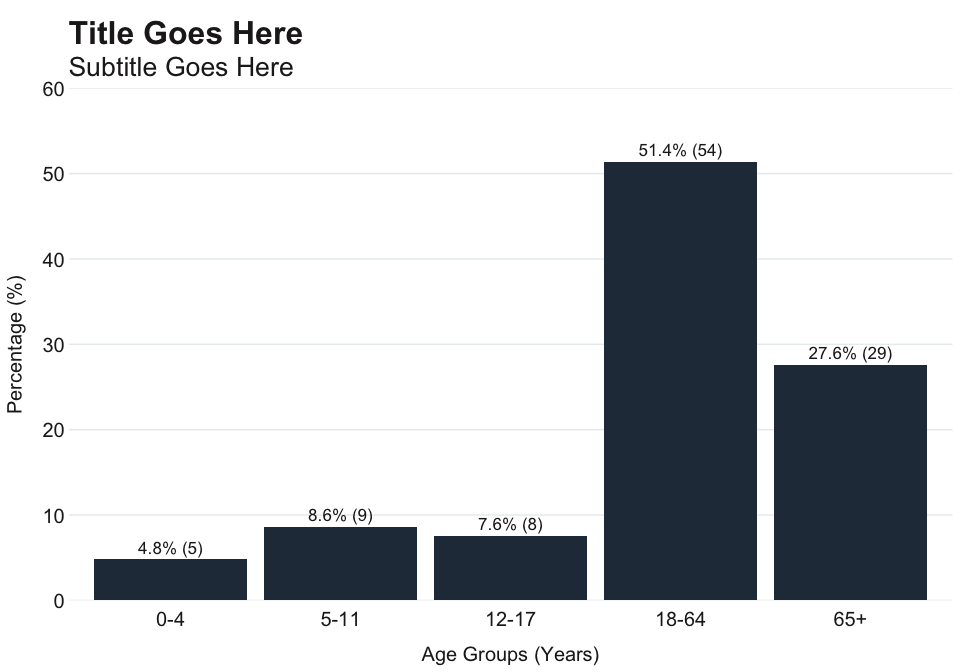
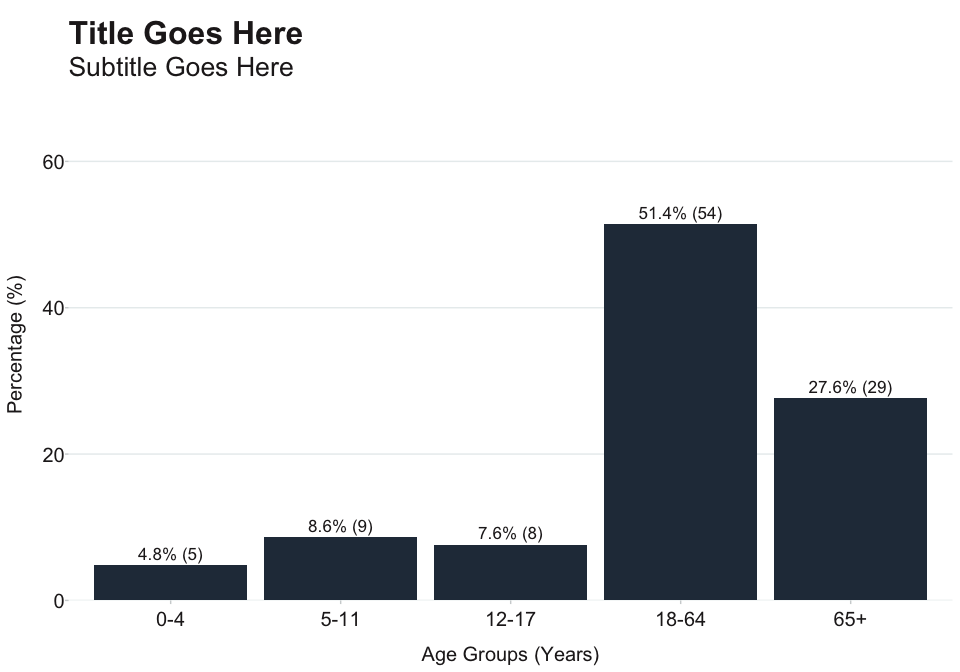
cov, vignette, cran prep

diff --git a/vignettes/OCepi.md b/vignettes/OCepi.md
@@ -1,52 +1,58 @@
 OCepi - Vignette
 ================
 
-- [Basic Data Cleaning](#basic-data-cleaning)
-  - [Recoding Patient Data](#recoding-patient-data)
-  - [Misc Data Cleaning](#misc-data-cleaning)
+- [Data Cleaning](#data-cleaning)
+  - [Recoding](#recoding)
+  - [Misc Recoding](#misc-recoding)
   - [VRBIS](#vrbis)
 - [Data Masking](#data-masking)
   - [Suppression](#suppression)
   - [Redaction](#redaction)
-- [Grouping Patients in Time](#grouping-patients-in-time)
+- [Common Epidemiological Date
+  Conversions](#common-epidemiological-date-conversions)
   - [MMWR](#mmwr)
   - [Respiratory Season](#respiratory-season)
   - [Month](#month)
 - [Data Management](#data-management)
   - [Data.frames](#dataframes)
 - [Data Visualizations](#data-visualizations)
-  - [Plot Themes](#plot-themes)
 
 The functions in this package were designed to simplify the most
 frequent recoding tasks. Patient data is *messy*, often times requiring:
 converting abbreviations to full responses, coalescing race and
-ethnicity to a unified column, fixing all the variations of misspelled
-city names, or grouping patients into time by week/month/year.
+ethnicity to a unified column, reformatting columns to use in
+joins/matching, or grouping patients into time.
 
-The examples below will use the simulated outbreak data:
+The examples below will use simulated outbreak data:
 
-    #> # A tibble: 10 × 5
-    #>    Ethnicity              Race                 Gender   Age `Sexual Orientation`
-    #>    <chr>                  <chr>                <chr>  <dbl> <chr>               
-    #>  1 Hispanic or Latino     Asian                F         63 HET                 
-    #>  2 Non-Hispanic or Latino Other                F         15 UNK                 
-    #>  3 Hispanic or Latino     Other                U          1 HET                 
-    #>  4 Hispanic or Latino     American Indian or … F         42 DNK                 
-    #>  5 Non-Hispanic or Latino Unknown              M         77 NOT                 
-    #>  6 Non-Hispanic or Latino Other                M         31 HET                 
-    #>  7 Non-Hispanic or Latino White                F         11 HET                 
-    #>  8 Hispanic or Latino     Asian                M         60 BIS                 
-    #>  9 Hispanic or Latino     Multiple Races       F         56 HET                 
-    #> 10 Non-Hispanic or Latino American Indian or … F         36 HET
+    #> # A tibble: 10 × 6
+    #>    Ethnicity             Race  Gender   Age `Sexual Orientation` `Specimen Date`
+    #>    <chr>                 <chr> <chr>  <dbl> <chr>                <chr>          
+    #>  1 Non-Hispanic or Lati… Mult… M         46 HET                  6/7/2022       
+    #>  2 Unknown               Unkn… M          4 HET                  6/9/2022       
+    #>  3 Non-Hispanic or Lati… White F         52 UNK                  6/7/2022       
+    #>  4 Non-Hispanic or Lati… White F         77 UNK                  6/11/2022      
+    #>  5 Unknown               Amer… M         71 HET                  6/10/2022      
+    #>  6 Non-Hispanic or Lati… Other M         70 HET                  6/9/2022       
+    #>  7 Non-Hispanic or Lati… Blac… F         11 HET                  6/8/2022       
+    #>  8 Non-Hispanic or Lati… Blac… F          8 HET                  6/12/2022      
+    #>  9 Hispanic or Latino    Amer… F         41 HET                  6/12/2022      
+    #> 10 Non-Hispanic or Lati… Blac… M         56 HET                  6/10/2022
 
-## Basic Data Cleaning
+## Data Cleaning
 
-### Recoding Patient Data
+### Recoding
 
 Core Functions:
 
 - `recode_race` - able to accept: ethnicity and race, race only, LOINC
   codes, and ‘Multi-race Status’ variable from VRBIS.
+
+  - Use argument `abbr_names` to abbreviate long category names
+    i.e. “American Indian or Alaska Native” to “AI/AN” (TRUE/FALSE).
+
+  - If using ethnicity and race, use order
+    `recode_race(ethnicity, race)`.
 
 - `recode_gender` - can be used with CalREDIE or VRBIS; aims to use the
   most inclusive terms possible.
@@ -70,8 +76,7 @@ Core Functions:
   - **school:** 0-4, 5-11, 12-17, 18-64, 65+
   - **wnv:** 0-17, 18-24, 25-34, 35-44, 45-54, 55-64, 65+
 
-Typical starting point in exploratory analysis is to recode
-demographics.
+Example:
 
 ``` r
 linelist <- linelist %>%
@@ -83,12 +88,8 @@ linelist <- linelist %>%
   )
 ```
 
-`recode_race` has the option to abbreviate long category names
-i.e. “American Indian or Alaska Native” to “AI/AN”. Set `abbr_names` to
-FALSE for full length names.
-
-Now run a frequency table with percentage using `add_percent` and crude
-rates using `rate_per_100k`:
+Frequency table with percentage using `add_percent` and incidence rates
+using `rate_per_100k`:
 
 ``` r
 linelist %>%
@@ -106,28 +107,23 @@ linelist %>%
 #> # A tibble: 5 × 4
 #>   age_group     n percent  rate
 #>   <fct>     <int>   <dbl> <dbl>
-#> 1 0-4         250     5   250  
-#> 2 5-11        394     7.9 131. 
-#> 3 12-17       366     7.3  73.2
-#> 4 18-64      2562    51.2 256. 
-#> 5 65+        1428    28.6  71.4
+#> 1 0-4           5     4.8   5  
+#> 2 5-11          9     8.6   3  
+#> 3 12-17         8     7.6   1.6
+#> 4 18-64        54    51.4   5.4
+#> 5 65+          29    27.6   1.4
 ```
 
-### Misc Data Cleaning
+### Misc Recoding
 
-Core functions:
+There are several minor recoding functions available:
 
 - `recode_ctract` - removes state (##) and county fips code (###) from
-  census tract. Useful if joining to shapefiles or health places index.
-- `clean_phone` - reformat phone number to U.S. 10 digit number. Useful
-  in matching algorithms or preparing line lists for contact tracing.
-- `clean_address` - convert address to title casing with option to
-  `keep_extra` components such as apartment, unit, etc. Useful in
-  preparing data for geocoding or matching.
-- `pretty_words` - convert messy string to title casing
-
-All of the functions below can be applied to data.frames within
-`dplyr::mutate`:
+  census tract
+- `clean_phone` - reformat phone number to U.S. 10 digit number
+- `clean_address` - convert string to title casing; use argument
+  `keep_extra` to remove(FALSE)/keep(TRUE) apartment, unit, etc.
+- `pretty_words` - convert string to title casing
 
 ``` r
 recode_ctract("06059099244")
@@ -192,18 +188,18 @@ df <- df %>%
 
 Small cell sizes may need to be suppressed to protect patient
 confidentiality prior to reporting. In this example, any cell sizes
-`less_than` 5 will be suppressed and `replace_with` double asterisk.
+`less_than` 10 will be suppressed and `replace_with` double asterisk.
 
 ``` r
-linelist %>% count(Gender) %>% mutate(n_suppress = suppress(n, less_than = 5, replace_with = "**"))
+linelist %>% count(age_group) %>% mutate(n_suppress = suppress(n, less_than = 10, replace_with = "**"))
 #> # A tibble: 5 × 3
-#>   Gender                n n_suppress
-#>   <chr>             <int> <chr>     
-#> 1 Female             2187 2187      
-#> 2 Male               2224 2224      
-#> 3 Missing/Unknown     583 583       
-#> 4 Transgender man       2 **        
-#> 5 Transgender woman     4 **
+#>   age_group     n n_suppress
+#>   <fct>     <int> <chr>     
+#> 1 0-4           5 **        
+#> 2 5-11          9 **        
+#> 3 12-17         8 **        
+#> 4 18-64        54 54        
+#> 5 65+          29 29
 ```
 
 ### Redaction
@@ -232,7 +228,7 @@ print(df)
 #> 4
 ```
 
-## Grouping Patients in Time
+## Common Epidemiological Date Conversions
 
 ### MMWR
 
@@ -243,67 +239,54 @@ Core Functions:
 - `week_ending_date` - calculate Saturday of disease week
 - `mmwr_calendar` - returns data.frame with columns for disease week,
   week start and end date, for a given epidemiological year
-
-Epidemiologists typically group cases by epidemiological year or week.
-From CDC:
-
-“The first day of any MMWR week is Sunday. MMWR week numbering is
-sequential beginning with 1 and incrementing with each week to a maximum
-of 52 or 53. MMWR week 1 of an MMWR year is the first week of the year
-that has at least four days in the calendar year. For example, if
-January 1 occurs on a Sunday, Monday, Tuesday or Wednesday, the calendar
-week that includes January 1 would be MMWR week 1. If January 1 occurs
-on a Thursday, Friday, or Saturday, the calendar week that includes
-January 1 would be the last MMWR week of the previous year (52 or 53).
-Because of this rule, December 29, 30, and 31 could potentially fall
-into MMWR week 1 of the following MMWR year.”
+- `mmwrweek_to_date` - calculate week ending date from epidemiological
+  year and week
 
 ``` r
-date_seq = seq.Date(from = as.Date("2023-10-01"), to = as.Date("2024-09-28"), by = "day")
-
-mmwr <- data.frame(spec_date = sample(date_seq, 20, replace = FALSE))
-
-mmwr <- mmwr %>%
-  arrange(spec_date) %>%
+dates <- linelist %>%
+  select(`Specimen Date`) %>%
+  mutate(`Specimen Date` = as.Date(`Specimen Date`, format = "%m/%d/%Y")) %>%
+  arrange(`Specimen Date`) %>%
   mutate(
-  epi_year = mmwr_year(spec_date),
-  disease_week = mmwr_week(spec_date),
-  week_ending = week_ending_date(spec_date)
+    epi_year = mmwr_year(`Specimen Date`),
+    disease_week = mmwr_week(`Specimen Date`),
+    week_ending = week_ending_date(`Specimen Date`)
   )
 
-head(mmwr)
-#>    spec_date epi_year disease_week week_ending
-#> 1 2023-10-05     2023           40  2023-10-07
-#> 2 2023-10-19     2023           42  2023-10-21
-#> 3 2023-10-21     2023           42  2023-10-21
-#> 4 2023-10-25     2023           43  2023-10-28
-#> 5 2023-11-14     2023           46  2023-11-18
-#> 6 2023-11-30     2023           48  2023-12-02
+head(dates)
+#> # A tibble: 6 × 4
+#>   `Specimen Date` epi_year disease_week week_ending
+#>   <date>             <dbl>        <dbl> <date>     
+#> 1 2022-06-04          2022           22 2022-06-04 
+#> 2 2022-06-04          2022           22 2022-06-04 
+#> 3 2022-06-04          2022           22 2022-06-04 
+#> 4 2022-06-05          2022           23 2022-06-11 
+#> 5 2022-06-05          2022           23 2022-06-11 
+#> 6 2022-06-06          2022           23 2022-06-11
 ```
 
-Presenting time series data by disease week with no other time reference
-is typically not helpful. The reader is left guessing when disease week
-27 or 46 is. If needed you can convert backward to week ending date from
-year and week:
+Convert epidemiological year and week to week ending date:
 
 ``` r
-mmwr <- mmwr %>%
+dates <- dates %>%
+  select(epi_year, disease_week) %>%
   mutate(
-    week_ending2 = mmwrweek_to_date(epi_year, disease_week)
+    week_ending = mmwrweek_to_date(epi_year, disease_week)
   )
 
-head(mmwr)
-#>    spec_date epi_year disease_week week_ending week_ending2
-#> 1 2023-10-05     2023           40  2023-10-07   2023-10-07
-#> 2 2023-10-19     2023           42  2023-10-21   2023-10-21
-#> 3 2023-10-21     2023           42  2023-10-21   2023-10-21
-#> 4 2023-10-25     2023           43  2023-10-28   2023-10-28
-#> 5 2023-11-14     2023           46  2023-11-18   2023-11-18
-#> 6 2023-11-30     2023           48  2023-12-02   2023-12-02
+head(dates)
+#> # A tibble: 6 × 3
+#>   epi_year disease_week week_ending
+#>      <dbl>        <dbl> <date>     
+#> 1     2022           22 2022-06-04 
+#> 2     2022           22 2022-06-04 
+#> 3     2022           22 2022-06-04 
+#> 4     2022           23 2022-06-11 
+#> 5     2022           23 2022-06-11 
+#> 6     2022           23 2022-06-11
 ```
 
-Use `mmwr_calendar` whenever you need to know total MWWR weeks in a
-given epidemiological year, or week start/end dates
+To make `mmwr_calendar` with total disease weeks + start/end dates:
 
 ``` r
 mmwr_calendar(2023) %>%
@@ -351,6 +334,7 @@ df %>% mutate(season = assign_season(spec_date))
 ### Month
 
 An alternative to grouping cases at the year or week level is by month.
+Returned output is a date formatted YYYY-MM-01.
 
 ``` r
 df <- data.frame(spec_date = as.Date(c("2023-10-01","2023-11-04","2024-09-28","2024-09-29")))
@@ -363,22 +347,13 @@ df %>% mutate(month = to_month(spec_date))
 #> 4 2024-09-29 2024-09-01
 ```
 
-The returned output is a date formatted YYYY-MM-01. This can further be
-customized if importing into Tableau or using ggplot2.
-
 ## Data Management
 
 ### Data.frames
 
-Core functions:
-
-- `batch_load` - import all .CSV files from a directory into unified
-  data.frame
-- `remove_empty_cols` - drop all columns from data.frame that are blank
-  (represented by `NA` or ““)
-
-To batch load .csv files, a list of files from a directory is required.
-Specify if your files have `col_names`.
+`batch_load` imports all .CSV files from a directory into unified
+data.frame (assumes files have matching columns). Specify if your files
+have `col_names`.
 
 ``` r
 files <- list.files(path = "G:/file_path/", full.names = TRUE, pattern = ".csv")
@@ -386,8 +361,8 @@ files <- list.files(path = "G:/file_path/", full.names = TRUE, pattern = ".csv")
 df <- batch_load(files, col_names = TRUE)
 ```
 
-Shrink large datasets by dropping columns that are completely
-empty/blank. Message printed to console with total columns dropped.
+`remove_empty_cols` drops all columns from data.frame that are blank
+(represented by `NA` or ““)
 
 ``` r
 df <- data.frame(a = c(NA,NA,NA), b = c("","",""), c = c(1,2,3))
@@ -408,8 +383,6 @@ print(df)
 
 ## Data Visualizations
 
-### Plot Themes
-
 Core functions:
 
 - `theme_apollo` - standardized branding for plots across the
@@ -418,7 +391,7 @@ Core functions:
 - `n_percent` - format labels using frequency and percentage to improve
   clarity
 
-Building off of the outbreak data:
+Basic plot using ggplot2:
 
 ``` r
 linelist %>%
@@ -429,18 +402,20 @@ linelist %>%
 
 ![](figures/vignette-boring-plot-1.png)<!-- -->
 
-Now apply `theme_apollo` and specify titles/axes labels:
+Applying `theme_apollo`, `apollo_label`, and `n_percent` for labels.
+Note: when using `coord_flip` for horizontal bar charts, set `direction`
+to “horizontal”.
 
 ``` r
 linelist %>%
   count(age_group) %>%
   mutate(
     percent = add_percent(n),
-    label = n_percent(formatC(n, big.mark = ","), percent, reverse = TRUE)
+    label = n_percent(n, percent, reverse = TRUE)
   ) %>%
   ggplot(aes(x = age_group, y = percent, label = label)) +
   geom_col(fill = "#283747") +
-  scale_y_continuous(expand = c(0,0), limits = c(0,60)) +
+  scale_y_continuous(expand = c(0,0), limits = c(0,70)) +
   theme_apollo(direction = "vertical") +
   labs(
     title = "Title Goes Here",
@@ -452,6 +427,3 @@ linelist %>%
 ```
 
 ![](figures/vignette-nice-plot-1.png)<!-- -->
-
-Note: when using `coord_flip` for horizontal bar charts, set `direction`
-to “horizontal”.

diff --git a/README.md b/README.md
@@ -23,7 +23,7 @@ package addresses the following priorities:
   reporting
 - methods to group cases/episode into MMWR disease weeks and years
 
-For full documentation, see vignette/OCepi.md
+For full documentation, see vignettes/OCepi.
 
 ## Installation
 
